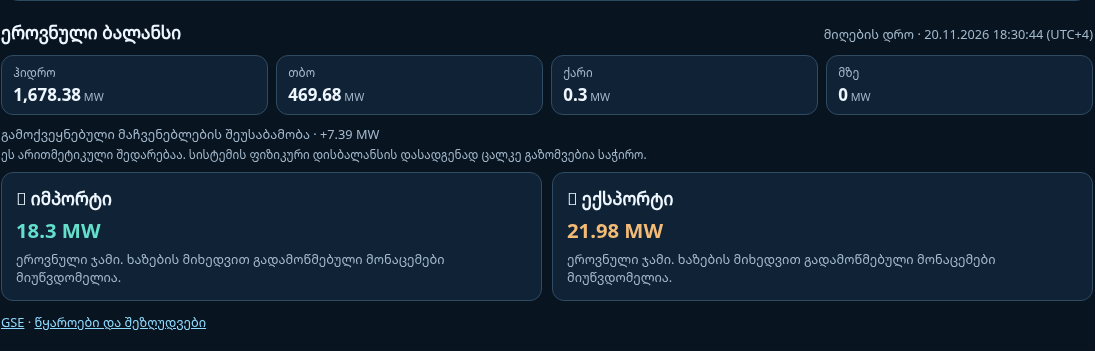
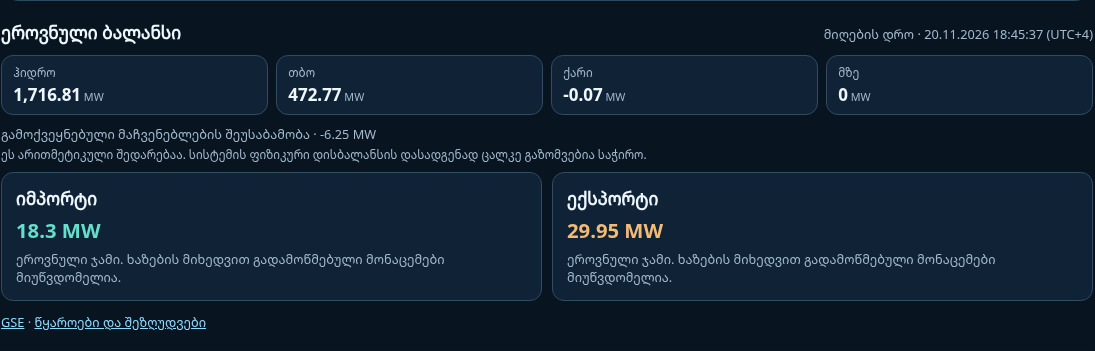
Keep signed balance values legible on mobile

diff --git a/streamlit_cloud/system_map_frontend/map.js b/streamlit_cloud/system_map_frontend/map.js
@@ -117,7 +117,7 @@ function interchange(panel, key, period) {
   const heading = document.createElement("h2");
   const value = document.createElement("strong");
   const label = document.createElement("p");
-  heading.textContent = (key === "import" ? "↘ " : "↗ ") + t(key);
+  heading.textContent = t(key);
   value.textContent = fmt(period?.values[key]);
   label.textContent = t("lines");
   el(panel).replaceChildren(heading, value, label);
@@ -173,7 +173,13 @@ function readings() {
   const residual = period?.residual;
   const hasBalance = Number.isFinite(residual);
   const signedDifference = hasBalance && residual >= .005 ? "+" + fmt(residual) : fmt(residual);
-  text("closure", hasBalance ? t("closure") + " · " + signedDifference : t("missingClosure"));
+  text("closure", hasBalance ? t("closure") + " · " : t("missingClosure"));
+  if (hasBalance) {
+    const amount = document.createElement("span");
+    amount.className = "reconciliation-amount";
+    amount.textContent = signedDifference;
+    el("closure").append(amount);
+  }
   el("closure").title = hasBalance ? t("closureFormula") : "";
   text("closure-note", t("closureNote"));
   el("closure-note").hidden = !hasBalance;

diff --git a/streamlit_cloud/system_map_frontend/map.css b/streamlit_cloud/system_map_frontend/map.css
@@ -56,6 +56,7 @@ h2{font-size:1.15rem}
 #mix .metric,.exchanges article{background:#102235;border:1px solid #304b62;border-radius:12px}
 .reconciliation,#fetch-status{margin:10px 0}
 #closure{font-variant-numeric:tabular-nums}
+.reconciliation-amount{white-space:nowrap}
 #closure-note{margin-top:3px;font-size:.78rem}
 .exchanges{display:grid;grid-template-columns:repeat(2,minmax(0,1fr));gap:10px}
 .exchanges article{padding:14px;display:grid;gap:.4rem}
